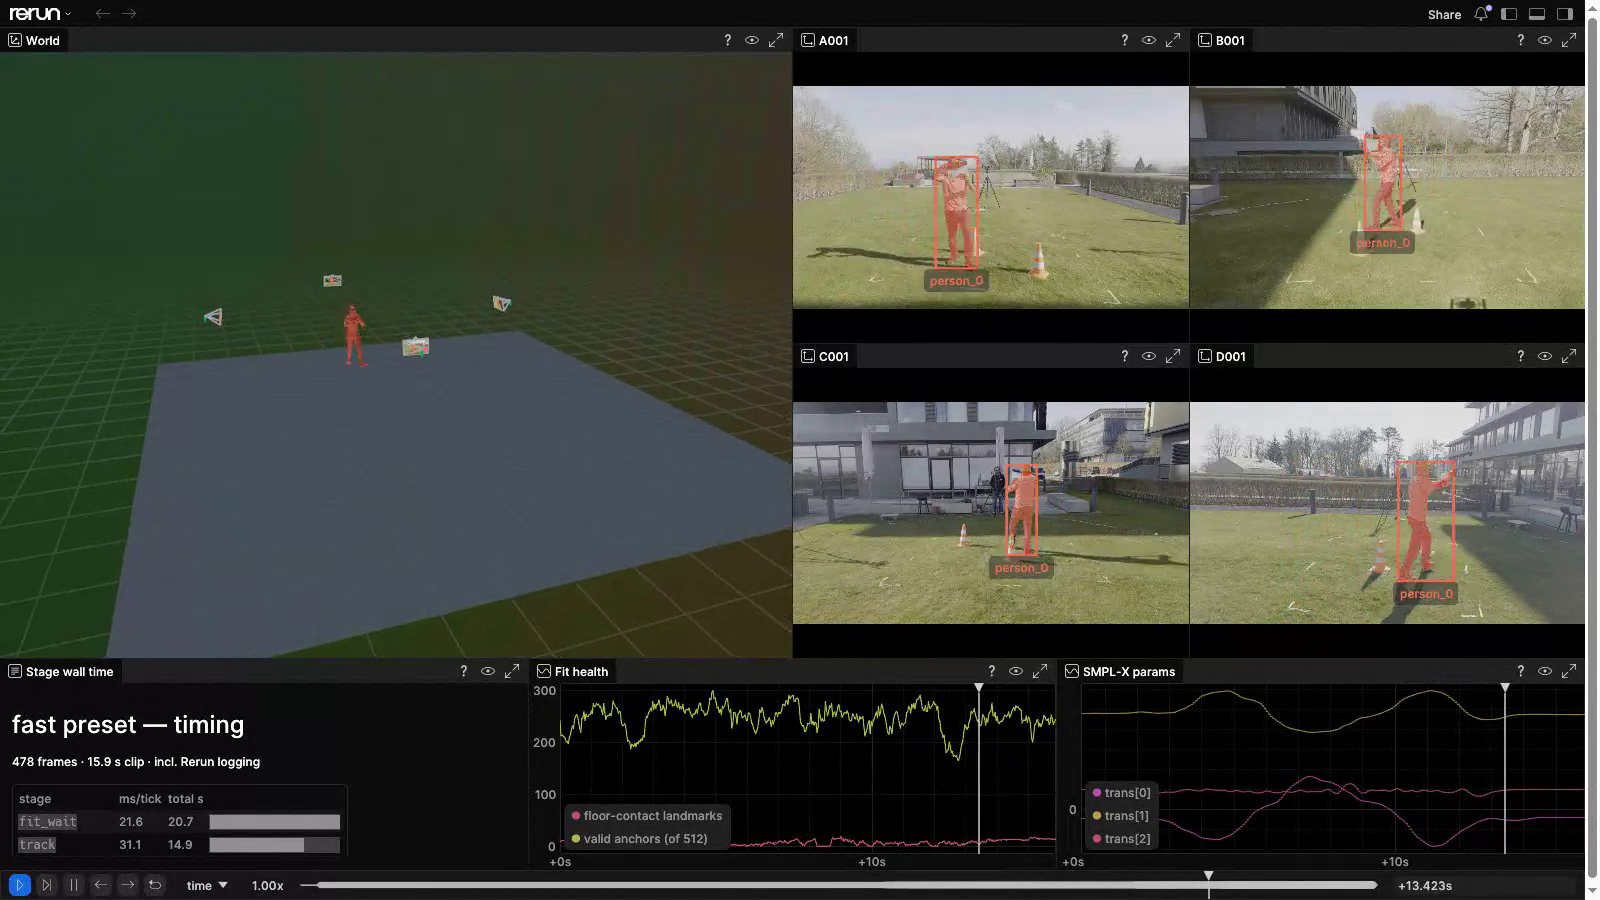
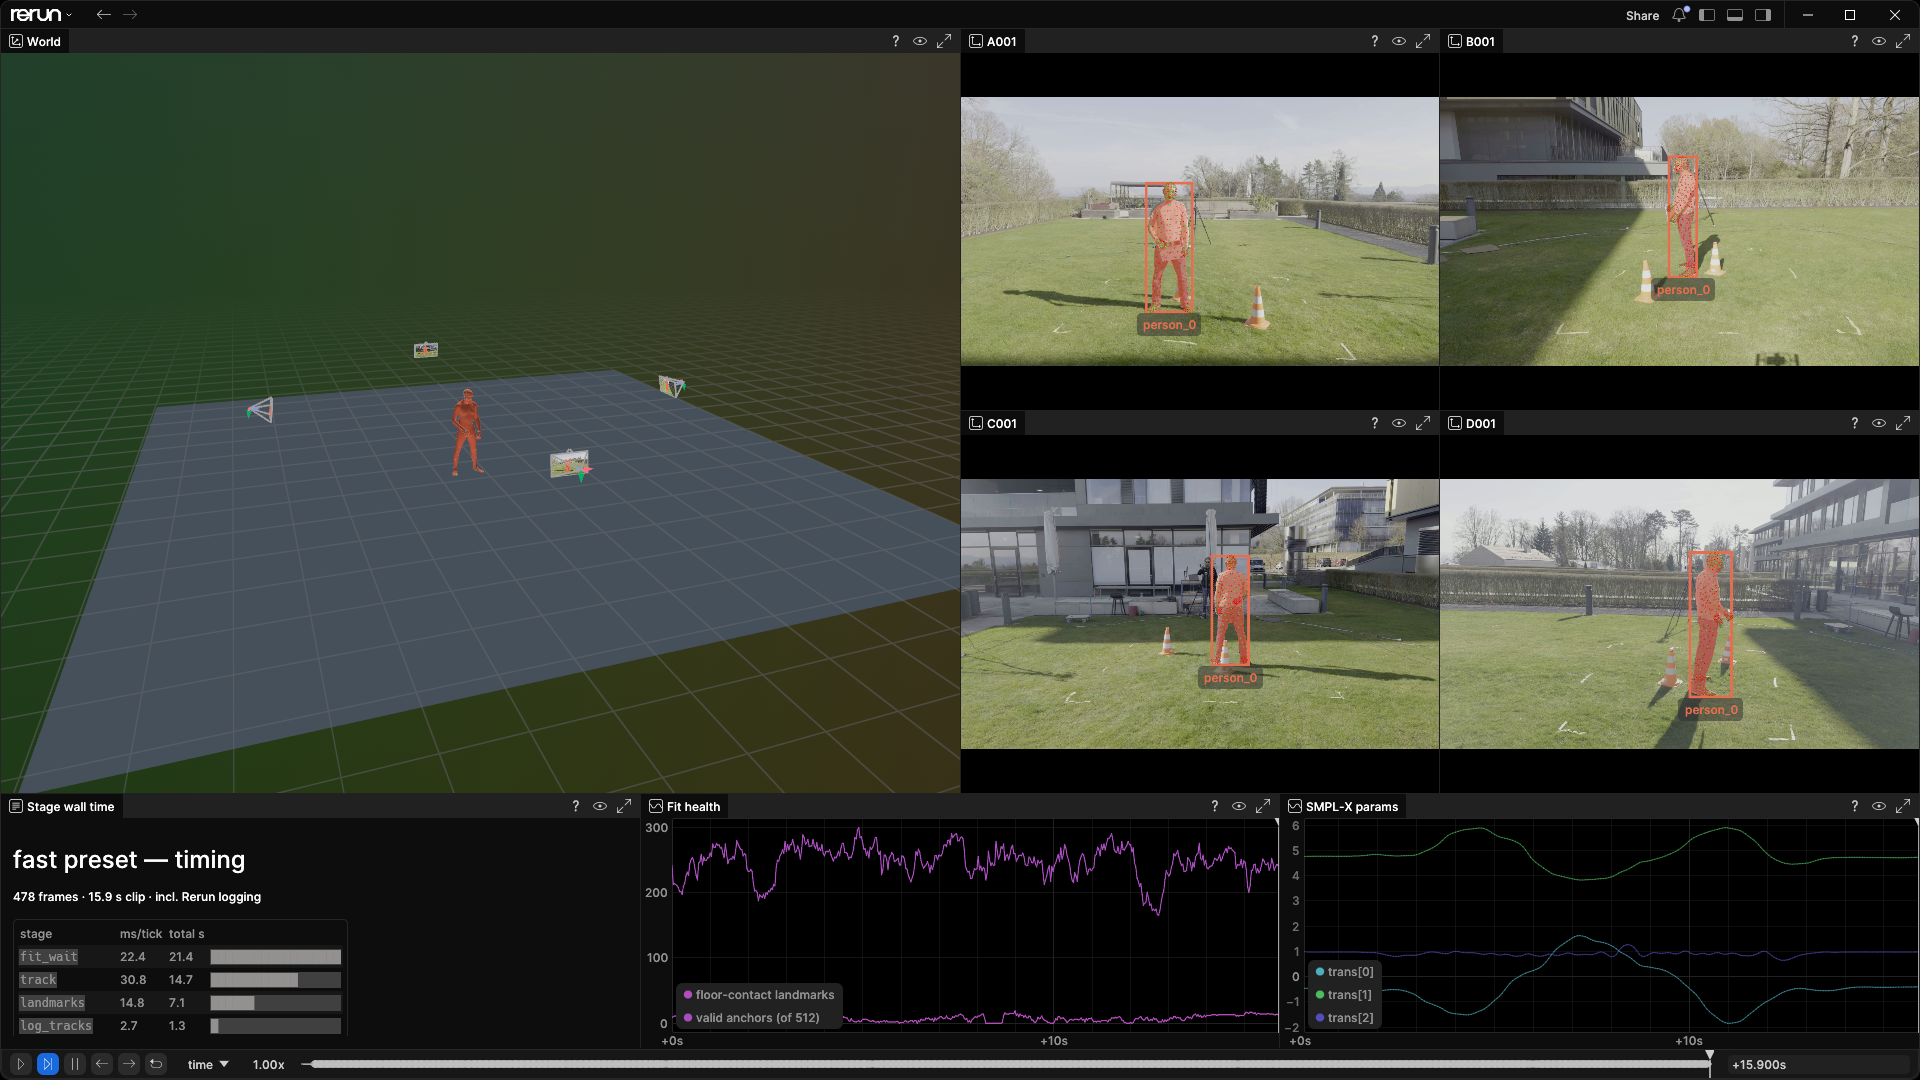
notes: refresh 3-way comparison screenshots (dense cloud, aligned mesh, centered ground) + fixes note
Regenerates the original/quality/fast comparison stills from the fixed RRDs and
documents the four viewer-fidelity fixes (mesh-timestamp alignment, dense 512
cloud, tail meshes, ground centering).

diff --git a/packages/mamma/implementation-notes.html b/packages/mamma/implementation-notes.html
@@ -161,6 +161,16 @@ is the offline DAG replayed from its saved artifacts, quality and fast are the l
 <figure style="margin:0;flex:1;min-width:300px"><img src="media/quality_compare.png" style="width:100%;border-radius:8px"><figcaption class="meta"><b>quality</b> &mdash; SAM2.1-small &middot; masks 0.972 / PVE 15.5 mm &middot; 90 s</figcaption></figure>
 <figure style="margin:0;flex:1;min-width:300px"><img src="media/fast_compare.png" style="width:100%;border-radius:8px"><figcaption class="meta"><b>fast</b> &mdash; EfficientTAM-ti, lean fit &middot; masks 0.901 / PVE 16.2 mm &middot; 44 s</figcaption></figure>
 </div>
+<p class="meta">Getting the streaming recordings to read like the offline original took four
+viewer-fidelity fixes (all verified against the data): <b>(1)</b> stamp the emitted mesh at its true frame, not
+the current tick &mdash; the fixed-lag fitter emits <code>frame &minus; emit_lag</code>, so the cloud was
+leading the mesh by up to 114&nbsp;mm at the jump apex (now ~20&nbsp;mm, the intrinsic cloud-to-surface gap);
+<b>(2)</b> log a <b>dense</b> 512-marker triangulated cloud (&sigma;/log-variance-weighted, like the original)
+instead of the vis&gt;0.5-gated ~265 &mdash; the fit still anchors only to the confident points, so PVE is
+unchanged, and dense-vs-dense actually <i>improved</i> tri3d to 14&nbsp;mm; <b>(3)</b> log the fitter's
+fixed-lag <b>tail meshes</b> so the mesh covers the final frames (the cloud no longer outruns a frozen mesh at
+the clip end); <b>(4)</b> center the <b>ground plane</b> under the camera rig (the calibration origin sits at
+one camera, so a square at the world origin left the far camera overhanging empty floor).</p>
 
 <h3>Run it yourself</h3>
 <pre style="background:#0c0e13;border:1px solid #2a3142;border-radius:8px;padding:14px;overflow-x:auto;font-size:12px;line-height:1.5"><code>cd packages/mamma
